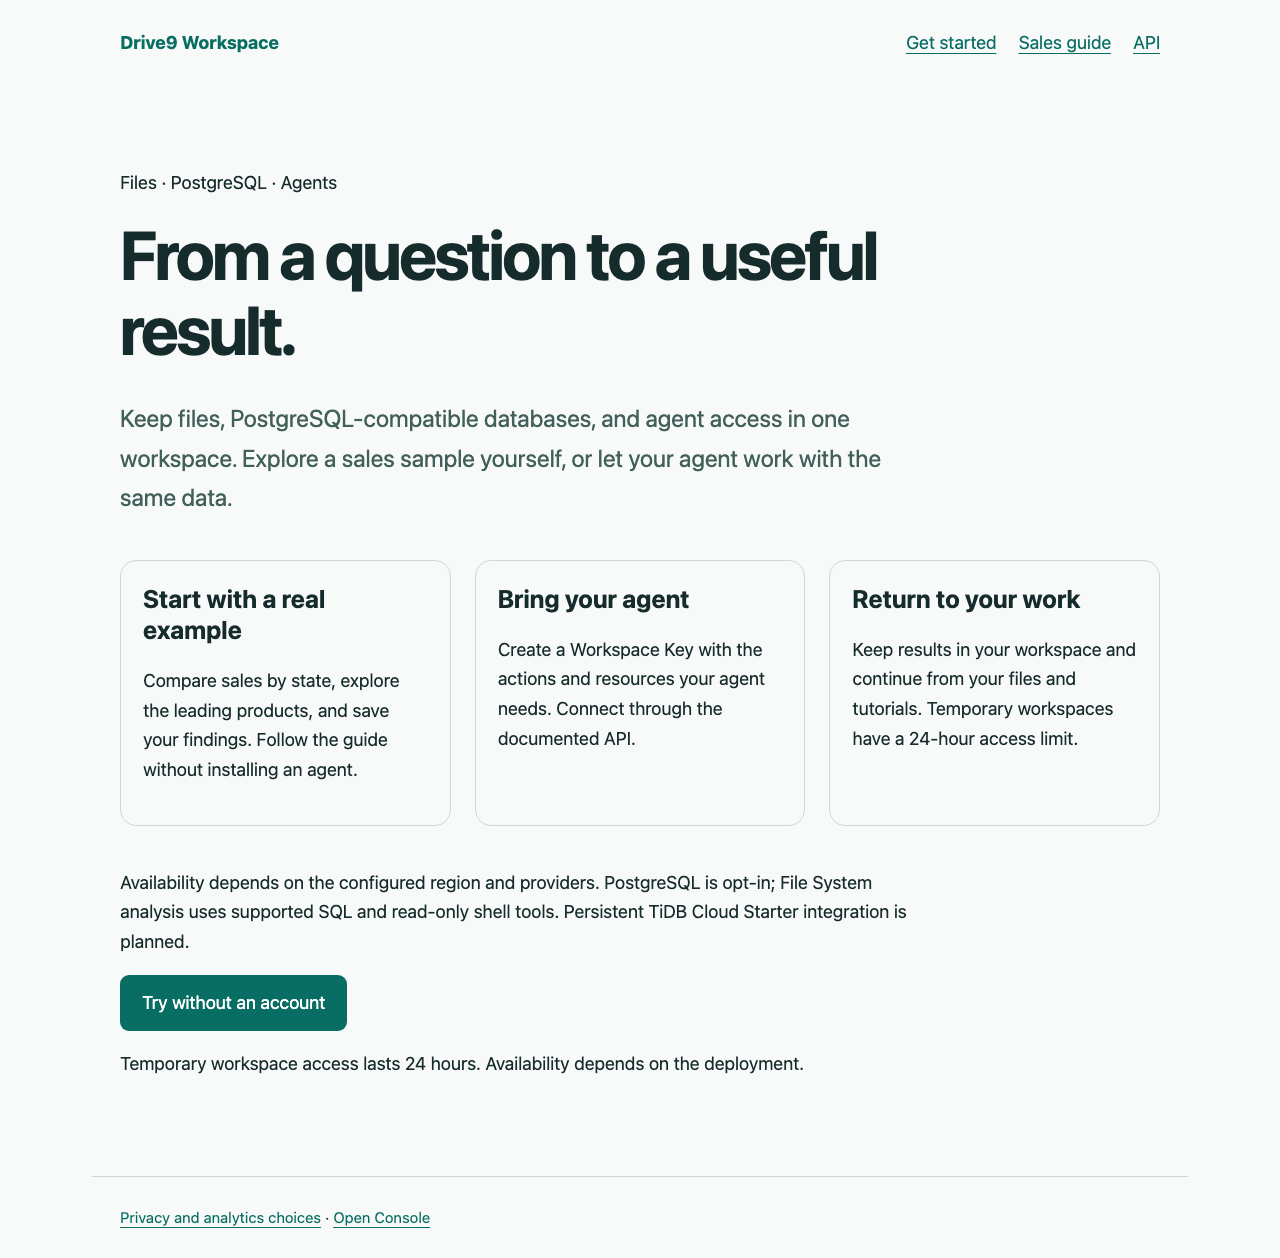
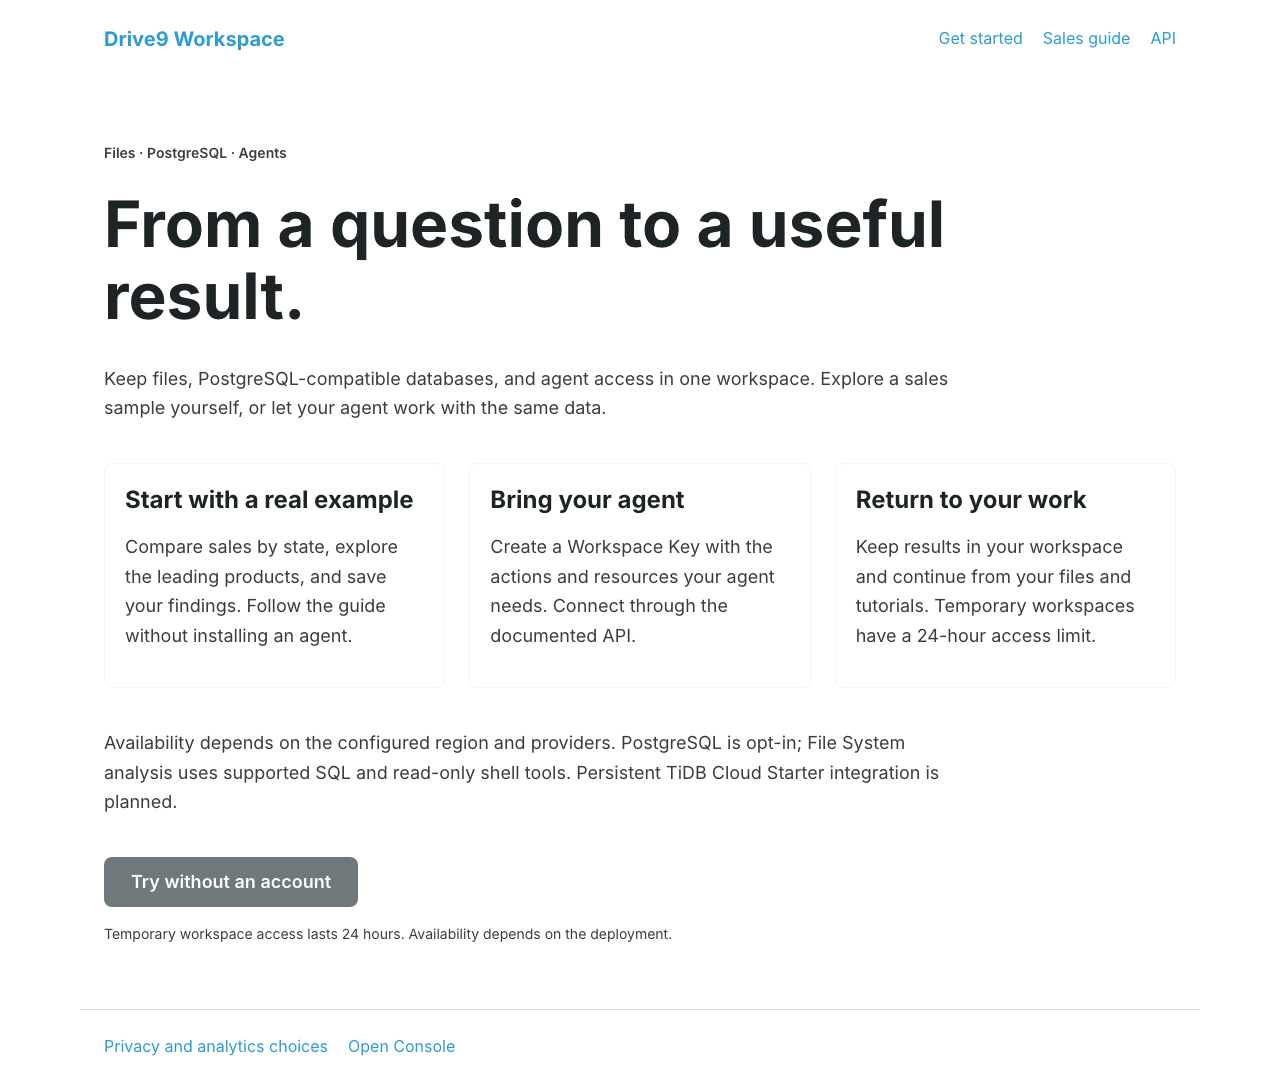
fix(discovery): render readable TiUI palettes in static pages

diff --git a/specs/gh-182/spec.md b/specs/gh-182/spec.md
@@ -12,7 +12,7 @@
 | Source baseline     | `f8fc201715aad9d10a04bdd9668b0acc85e632d4` (implementation must pin the accepted specification's full merge SHA)                                                                                                                      |
 | Risk                | New pseudonymous behavior collection and cross-Workspace aggregate access; public search exposure                                                                                                                                     |
 | Dependencies        | [ADR 0044](../../docs/decisions/0044-workspace-observability.md), [Global API](../../docs/global-public-api.md), [TiUI](../../docs/standards/tiui-design-system.md), [API verification](../../docs/standards/openapi-verification.md) |
-| Acceptance baseline | LAUNCH-01 through LAUNCH-12 below; proposed until specification acceptance                                                                                                                                                            |
+| Acceptance baseline | LAUNCH-01 through LAUNCH-12 below, with the owner's monitoring and Admin amendments; implementation evidence and remaining launch checks are recorded in GH-184                                                                       |
 
 The owner accepted this design on 2026-11-04 and then clarified two requirements:
 Admin uses TiDB Cloud login with a verified email in exactly `pingcap.com`; HTTP
@@ -42,13 +42,13 @@ for initial launch. Revisit storage based on measured load and retention cost.
 
 ### LAUNCH-01: Collect a small, versioned event vocabulary
 
-| Source          | Events                                                                   | Meaning                                                                                                                                            |
-| --------------- | ------------------------------------------------------------------------ | -------------------------------------------------------------------------------------------------------------------------------------------------- |
-| Browser         | `public_page_view`, `try_clicked`, `sign_in_clicked`, `journey_selected` | Public page and explicit entry intent; journey is agent or self-service                                                                            |
-| Browser         | `helpful_vote`                                                           | Optional yes/no answer after a useful result; web-vital and HTTP monitoring deferred by owner                                                      |
-| Verified server | `workspace_ready`, `sign_in_completed`, `sample_ready`                   | Actual completed onboarding/sample setup, with guest/account actor classification                                                                  |
-| Verified server | `operation_completed`                                                    | Fixed operation enum, outcome, duration and safe error category for resource creation, file preview/read/write, query, analysis, import and export |
-| Verified server | `report_saved`                                                           | Successful explicit first-party tutorial report save; generic file existence or writes cannot claim an agent report                                |
+| Source          | Events                                                                   | Meaning                                                                                                                                      |
+| --------------- | ------------------------------------------------------------------------ | -------------------------------------------------------------------------------------------------------------------------------------------- |
+| Browser         | `public_page_view`, `try_clicked`, `sign_in_clicked`, `journey_selected` | Public page and explicit entry intent; journey is agent or self-service                                                                      |
+| Browser         | `helpful_vote`                                                           | Optional yes/no answer after a useful result; web-vital and HTTP monitoring deferred by owner                                                |
+| Verified server | `workspace_ready`, `sign_in_completed`, `sample_ready`                   | Actual completed onboarding/sample setup, with guest/account actor classification                                                            |
+| Verified server | `operation_completed`                                                    | Fixed operation enum and outcome for resource creation, file preview/read/write, query, analysis, import and export; request timing deferred |
+| Verified server | `report_saved`                                                           | Successful explicit first-party tutorial report save; generic file existence or writes cannot claim an agent report                          |
 
 Server outcomes are emitted from shared domain/transport completion hooks so REST
 and Console use the same definitions. Do not infer success from button clicks,
@@ -59,10 +59,10 @@ specifications; do not invent an `agent_connected` event from a copy action.
 
 Browser events accept only versioned, per-event typed fields: random event/session
 IDs, fixed page/journey enums, coarse device class, bounded approved campaign IDs,
-referrer category and numeric vital values/ratings. No arbitrary property bags.
+referrer category. No arbitrary property bags or browser vital measurements.
 Unknown fields/events and unsupported versions fail validation. Server events add
-trusted timestamps, environment, authority, pseudonymous Workspace/actor IDs,
-operation enum, outcome, request ID and duration. Client submissions cannot supply
+trusted timestamps, authority, pseudonymous Workspace/actor IDs,
+operation enum and outcome. Client submissions cannot supply
 trusted outcomes, identity, environment, request linkage or operator flags.
 
 ### LAUNCH-02: Define visitors and attribution honestly
@@ -99,8 +99,8 @@ complete days, with Today, 7 days and 30 days available. Today is explicitly par
 | Time to value          | Median and p90 from server Workspace readiness to first useful result among activated Workspaces; show sample count and never treat non-activators as zero seconds            |
 | API adoption           | Distinct Workspaces with successful Key-authenticated meaningful operations; kept separate from browser visits and human counts                                               |
 | Active and returning   | Meaningful success per Workspace/day; D1 and D7 retention are activity in UTC day +1/+7 from first meaningful-success day / eligible activated cohort, split by guest/account |
-| Friction               | Attempts, successes, failures, safe failure categories and p50/p95 durations by operation; exclude routine polling and identify insufficient samples                          |
-| Experience             | Helpful yes / answered votes and LCP/INP/CLS distributions, separately with sample counts; do not claim these measure satisfaction for everyone                               |
+| Friction               | Successes and failures by operation; exclude routine polling. HTTP timing and operational failure diagnostics are deferred by the owner                                       |
+| Experience             | Helpful yes / answered votes with sample counts; do not claim these measure satisfaction for everyone. Browser vitals are deferred                                            |
 
 An ordered conversion funnel counts only sessions/Workspaces with the required
 preceding step. Browser-only intent and authoritative results are distinguishable.

diff --git a/docs/standards/tiui-design-system.md b/docs/standards/tiui-design-system.md
@@ -116,6 +116,12 @@ rem-based geometry. Adjust the supported component typography and density settin
 computed sizes after overriding; a named typography variant may set its own size explicitly.
 Preserve browser zoom. Reflow narrow layouts rather than decreasing font size.
 
+For static TiUI pages, the provider renders only the selected palette. Changing the HTML
+color-scheme attribute alone does not resolve the other TiUI palette. Generate the dark
+semantic color tokens from the public `useTheme('dark')` API alongside the light SSR output;
+do not copy palette values. Verify initial HTML contrast in both system themes, including
+before optional analytics JavaScript runs. This boundary is implemented by the discovery renderer.
+
 ## Component selection for this Workspace
 
 | Product pattern                | TiUI building blocks                                                                          | Project responsibility                                                        |
